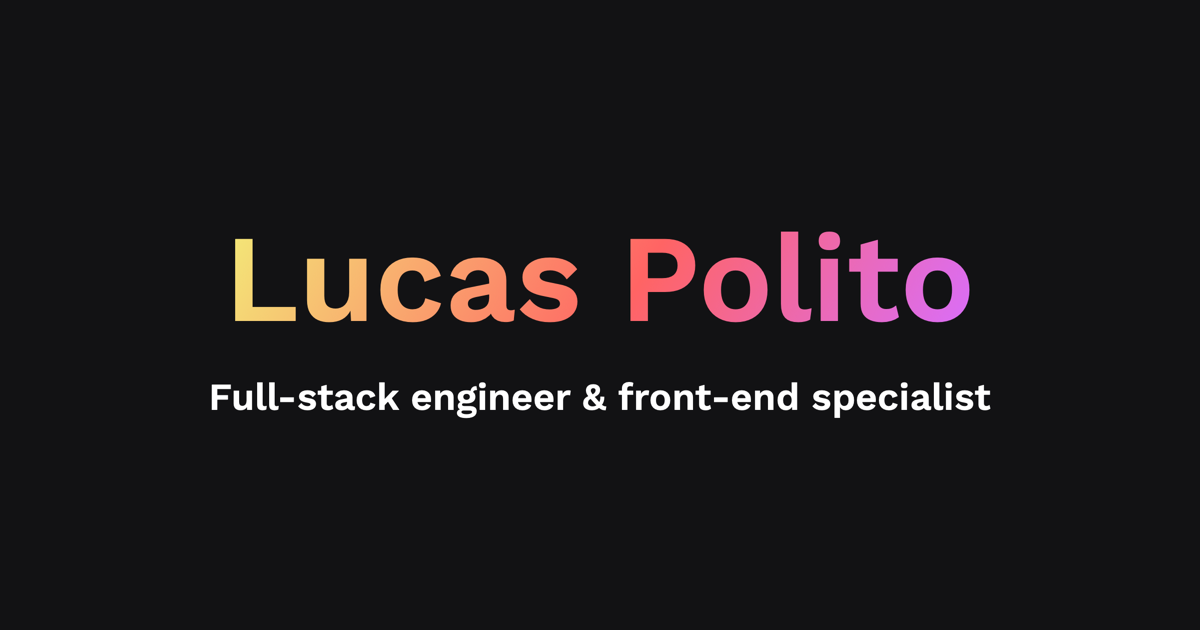
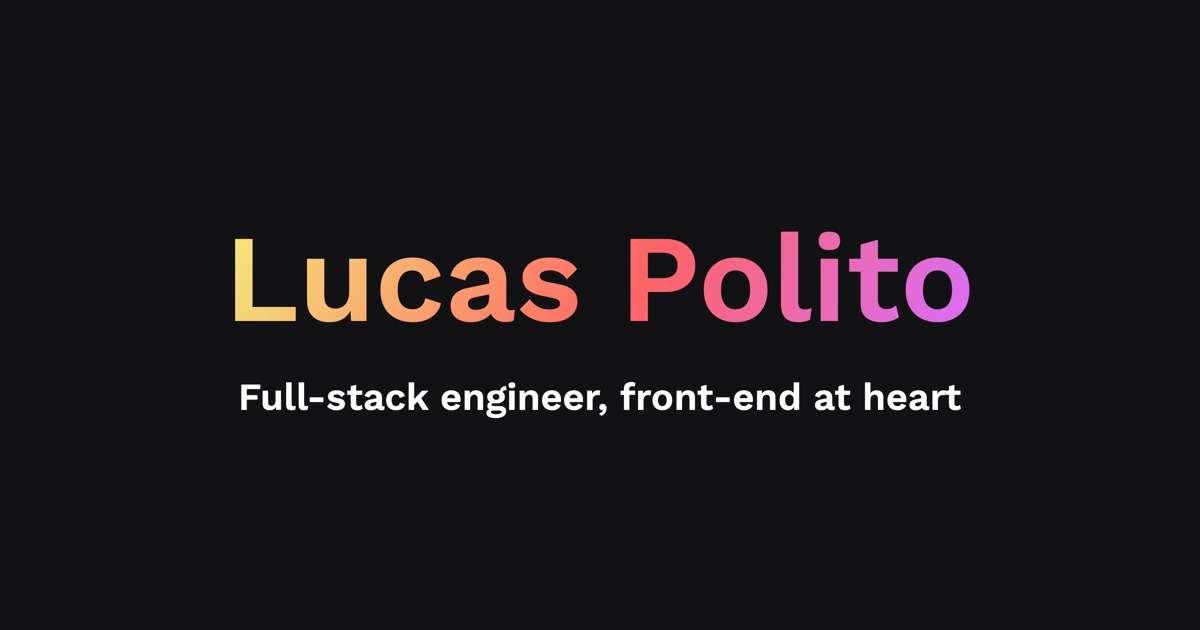
Replace GitLab with email and add a 404 page
Add a paper plane email link that decodes its address on click, so it
stays out of the HTML. Update the tagline, description, and social image,
mark profile links with rel="me", and add a not-found page.

Changed region(s): [[0.1542, 0.6032, 0.8325, 0.6635]]

diff --git a/index.html b/index.html
@@ -8,10 +8,10 @@
       content="width=device-width,minimum-scale=1,initial-scale=1"
     />
 
-    <title>Lucas Polito — Full-stack engineer & front-end specialist</title>
+    <title>Lucas Polito — Full-stack engineer, front-end at heart</title>
     <meta
       name="description"
-      content="Lucas Polito is a Michigan-based full-stack engineer and front-end specialist working in React, TypeScript, and Node.js, with a focus on UX and accessibility."
+      content="Lucas Polito is a Michigan-based full-stack engineer on a front-end platform team, building component libraries and AI tooling, with a love for UI, UX, and DX."
     />
     <meta name="author" content="Lucas Polito" />
     <meta name="theme-color" content="#121214" />
@@ -21,18 +21,18 @@
     <meta property="og:url" content="https://lucaspolito.dev/" />
     <meta
       property="og:title"
-      content="Lucas Polito — Full-stack engineer & front-end specialist"
+      content="Lucas Polito — Full-stack engineer, front-end at heart"
     />
     <meta
       property="og:description"
-      content="Lucas Polito is a Michigan-based full-stack engineer and front-end specialist working in React, TypeScript, and Node.js, with a focus on UX and accessibility."
+      content="Lucas Polito is a Michigan-based full-stack engineer on a front-end platform team, building component libraries and AI tooling, with a love for UI, UX, and DX."
     />
     <meta property="og:image" content="https://lucaspolito.dev/og-image.png" />
     <meta property="og:image:width" content="1200" />
     <meta property="og:image:height" content="630" />
     <meta
       property="og:image:alt"
-      content="Lucas Polito — Full-stack engineer & front-end specialist"
+      content="Lucas Polito — Full-stack engineer, front-end at heart"
     />
     <meta name="twitter:card" content="summary_large_image" />
 
@@ -45,7 +45,6 @@
         "jobTitle": "Full-stack Engineer",
         "sameAs": [
           "https://github.com/lpolito",
-          "https://gitlab.com/lpolito",
           "https://www.linkedin.com/in/lucaspolito/"
         ]
       }
@@ -94,21 +93,33 @@
           gradientClasses[Math.floor(Math.random() * gradientClasses.length)];
         document.getElementById("main").classList.add(randomGradientClass);
       </script>
-      <p id="tagline">Full-stack engineer &amp; front-end specialist</p>
+      <p id="tagline">Full-stack engineer, front-end at heart</p>
       <nav id="links" aria-label="Profiles">
-        <a href="https://github.com/lpolito" aria-label="Lucas Polito GitHub">
+        <a
+          href="https://github.com/lpolito"
+          rel="me"
+          aria-label="Lucas Polito GitHub"
+        >
           <span class="icon icon-github"></span>
-        </a>
-        <a href="https://gitlab.com/lpolito" aria-label="Lucas Polito GitLab">
-          <span class="icon icon-gitlab"></span>
         </a>
         <a
           href="https://www.linkedin.com/in/lucaspolito/"
+          rel="me"
           aria-label="Lucas Polito LinkedIn"
         >
           <span class="icon icon-linkedin"></span>
         </a>
+        <a id="email" href="#" aria-label="Email Lucas Polito">
+          <span class="icon icon-email"></span>
+        </a>
       </nav>
+      <script type="text/javascript">
+        // encoded and only decoded on click to keep the address from scrapers
+        document.getElementById("email").addEventListener("click", (event) => {
+          event.preventDefault();
+          location.href = atob("bWFpbHRvOnNob3V0QGx1Y2FzcG9saXRvLmRldg==");
+        });
+      </script>
     </main>
   </body>
 </html>

diff --git a/404.html b/404.html
@@ -1,0 +1,29 @@
+<!DOCTYPE html>
+
+<html lang="en">
+  <head>
+    <meta charset="utf-8" />
+    <meta
+      name="viewport"
+      content="width=device-width,minimum-scale=1,initial-scale=1"
+    />
+
+    <title>Page not found — Lucas Polito</title>
+    <meta name="robots" content="noindex" />
+    <meta name="theme-color" content="#121214" />
+
+    <link rel="icon" href="/favicon.ico" sizes="32x32" />
+    <link rel="icon" href="/favicon.svg" type="image/svg+xml" />
+    <link rel="apple-touch-icon" href="/apple-touch-icon.png" />
+
+    <link rel="stylesheet" href="/css/styles.css" />
+  </head>
+
+  <body>
+    <main id="main" class="sunset">
+      <h1 class="gradient-mask">404</h1>
+      <p id="tagline">This page doesn't exist.</p>
+      <a id="home" href="/">Back to lucaspolito.dev</a>
+    </main>
+  </body>
+</html>

diff --git a/css/styles.css b/css/styles.css
@@ -200,8 +200,8 @@ h1 {
   --icon: url("../icons/github.svg");
 }
 
-.icon-gitlab {
-  --icon: url("../icons/gitlab.svg");
+.icon-email {
+  --icon: url("../icons/email.svg");
 }
 
 .icon-linkedin {
@@ -234,6 +234,15 @@ a {
     outline: 2px solid var(--foreground);
     outline-offset: 0.25rem;
   }
+}
+
+#home {
+  margin-top: 2.5rem;
+  color: var(--foreground);
+  font-weight: 500;
+  line-height: 1.4;
+  text-decoration: underline;
+  text-underline-offset: 0.25em;
 }
 
 @media (prefers-reduced-motion: reduce) {

diff --git a/README.md b/README.md
@@ -14,9 +14,10 @@ Then open http://localhost:8000.
 
 ### What's where
 
-- `index.html`: the page, its metadata, and the script that picks a random gradient
+- `index.html`: the page, its metadata, and the scripts that pick a random gradient and build the email link on click
+- `404.html`: not-found page, which uses root-relative paths because GitHub Pages serves it at any URL depth
 - `css/styles.css`: styles and gradients
-- `icons/`: profile icons, used as CSS masks so they can fill with the gradient on hover
+- `icons/`: link icons, used as CSS masks so they can fill with the gradient on hover
 - `fonts/`: self-hosted Work Sans (weights 500 and 600, Latin subset) and its license
 - `favicon.*`, `apple-touch-icon.png`, `og-image.png`: browser icons and the social preview image
 - `CNAME`: custom domain for GitHub Pages
